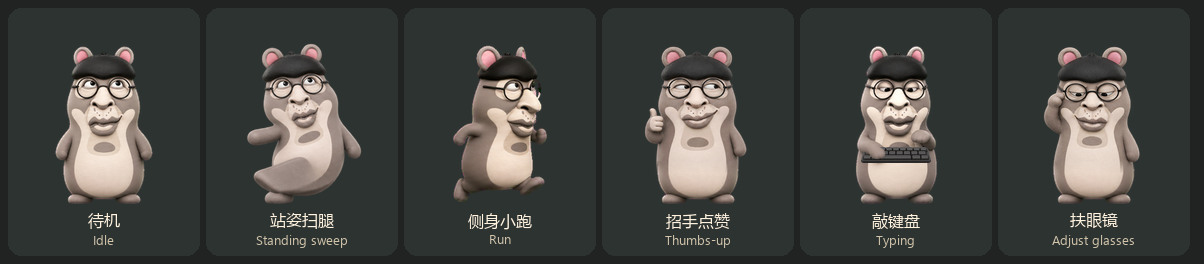
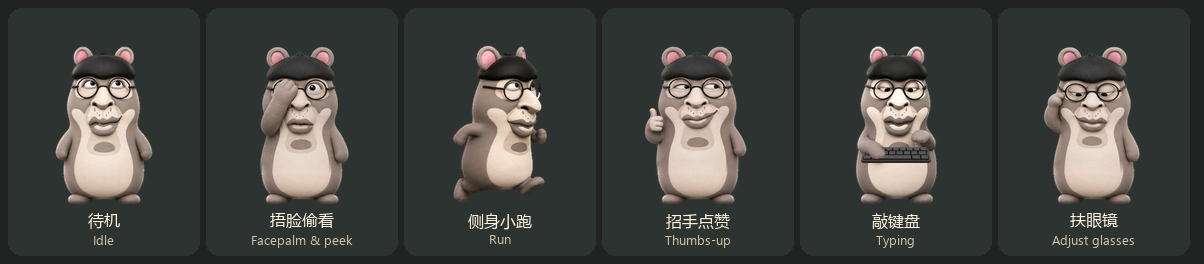
Restore the original facepalm and peek animation

Changed region(s): [[0.1844, 0.1515, 0.3073, 0.9394]]

diff --git a/README.md b/README.md
@@ -1,22 +1,12 @@
 # 飞飞鼠 · Feifeishu for Codex
 
-飞飞鼠是可以装进 **Codex 桌面应用**的 Faker 梗图桌宠，也叫大飞鼠、飞天鼠。它戴着圆眼镜，站着就抬腿横扫出去，扫空了才捂脸偷看。
+飞飞鼠是可以装进 **Codex 桌面应用**的 Faker 梗图桌宠，也叫大飞鼠、飞天鼠。它戴着圆眼镜，平时爱憋笑，任务失误时会捂脸再偷看。
 
-**Feifeishu** is an animated **Codex desktop pet** inspired by the **Faker Flying Squirrel** and **Faker Flying Mouse** memes. When a task fails, it sweeps one raised foot sideways from a standing pose, misses, and peeks out from behind its paws. It also waves, types with alternating paws, and adjusts its glasses during review.
+**Feifeishu** is an animated **Codex desktop pet** inspired by the **Faker Flying Squirrel** and **Faker Flying Mouse** memes. It waves, types with alternating paws, and adjusts its glasses during review. After a failed task, it covers its face and peeks out from behind one paw.
 
 [**下载 Windows 安装包 · Download for Windows**](https://github.com/99Like-wjj/feifeishu-codex-pet/releases/latest/download/feifeishu-codex-pet-windows.zip) · [版本记录 · Releases](https://github.com/99Like-wjj/feifeishu-codex-pet/releases)
 
-![飞飞鼠的待机、抬脚横扫、侧面跑动、点赞、敲键盘和扶眼镜](docs/images/preview.png)
-
-## 站姿扫腿 · Standing sweep
-
-**任务失败时**，飞飞鼠从站姿直接抬腿，脚从画面右侧扫过腹前，带着肩和髋转向左侧。扫动脚保持离地，横过时挡住一部分下腹。随后把脚收回身下，再捂脸偷看。桌宠使用固定正面视角。**鼠标悬停**时播放普通跳跃。
-
-The standing sweep plays in the desktop pet’s **failed task** animation. The pet brings its raised leg from screen-right across its belly and toward screen-left as its shoulders and hips turn. It then draws the foot back under its body. The front camera stays fixed. Hover over the floating pet to see its regular hop.
-
-![飞飞鼠一只脚撑地，另一只脚抬起从身前横扫过去，收脚后捂脸偷看](docs/images/ground-kick.gif)
-
-从原片 1.467–2.200 秒每隔两帧取样，并以 1.600、1.733、1.867、2.000 和 2.200 秒对照抬脚、横扫和收腿姿势。[飞飞鼠与马头羊（再补档）](https://www.bilibili.com/video/BV1Gj476zEQL/)
+![飞飞鼠的待机、捂脸偷看、侧面跑动、点赞、敲键盘和扶眼镜](docs/images/preview.png)
 
 <details>
 <summary>播放九种状态 · Watch all nine animations</summary>
@@ -47,7 +37,7 @@ The standing sweep plays in the desktop pet’s **failed task** animation. The p
 | 左右走动 | 侧身小跑 | Run left or right |
 | 招手 | 挥爪后竖拇指 | Wave and give a thumbs-up |
 | 悬停跳跃 | 起跳、腾空、落地 | Hop and land |
-| 任务失败 | 站姿抬腿横扫，收脚后捂脸偷看 | Standing sweep, facepalm, and peek |
+| 任务失败 | 先瞪眼，再捂脸偷看 | Widen eyes, facepalm, and peek |
 | 等待 | 合手等一会儿，再摊开手 | Clasp paws, then shrug |
 | 工作 | 左右爪交替敲小键盘 | Type with alternating paws |
 | 审阅 | 眯眼扶镜框 | Squint and adjust glasses |
